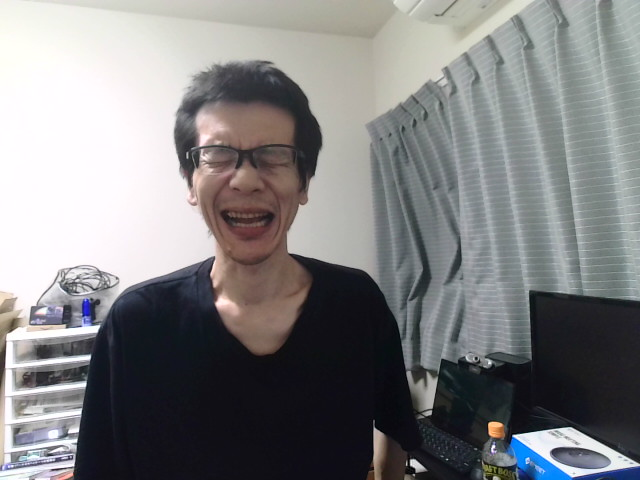
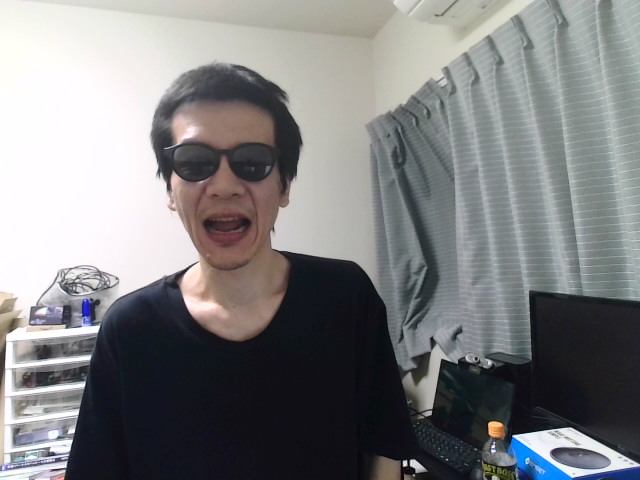
update

diff --git a/benchmark-app/src/main.ts b/benchmark-app/src/main.ts
@@ -1217,6 +1217,17 @@ function selectedModel(): ModelEntry {
   return model;
 }
 
+function defaultModelName(runtime: Runtime, models: readonly ModelEntry[]): string | undefined {
+  if (runtime === 'litert') {
+    return (
+      models.find((model) => model.name.includes('_wo_fiqa_'))?.name ??
+      models.find((model) => model.name.endsWith('_wo_fiqa_float32.tflite'))?.name ??
+      models[0]?.name
+    );
+  }
+  return models.find((model) => !model.name.includes('_wo_fiqa'))?.name ?? models[0]?.name;
+}
+
 function updateModelOptions(preferredModel?: string) {
   const runtime = runtimeSelect.value as Runtime;
   const mode = inputModeSelect.value as InputMode;
@@ -1227,6 +1238,11 @@ function updateModelOptions(preferredModel?: string) {
 
   if (preferredModel && models.some((model) => model.name === preferredModel)) {
     modelSelect.value = preferredModel;
+  } else {
+    const defaultName = defaultModelName(runtime, models);
+    if (defaultName) {
+      modelSelect.value = defaultName;
+    }
   }
 
   const hasDetector = (manifest.detectors ?? []).some((detector) => detector.runtime === runtime);
@@ -1301,7 +1317,7 @@ async function autoRunIfRequested() {
   const requestedRuntime = params.get('runtime') === 'litert' ? 'litert' : 'onnxruntime-web';
   runtimeSelect.value = requestedRuntime;
   inputModeSelect.value = params.get('mode') === 'demo_image' ? 'demo_image' : 'synthetic_tensor';
-  const requestedModel = params.get('model') ?? (requestedRuntime === 'litert' ? 'chc_s_float32.tflite' : 'chc_s.onnx');
+  const requestedModel = params.get('model') ?? undefined;
   updateModelOptions(requestedModel);
   backendSelect.value = params.get('backend') === 'webgpu' ? 'webgpu' : 'wasm';
   warmupInput.value = params.get('warmup') ?? '2';

diff --git a/benchmark-app/src/styles.css b/benchmark-app/src/styles.css
@@ -86,7 +86,7 @@ p {
 
 .controls {
   display: grid;
-  grid-template-columns: 150px 170px minmax(240px, 1fr) 140px 95px 95px auto;
+  grid-template-columns: 150px 170px minmax(280px, 1fr) 116px 95px 95px auto;
   gap: 12px;
   align-items: end;
   margin-bottom: 16px;